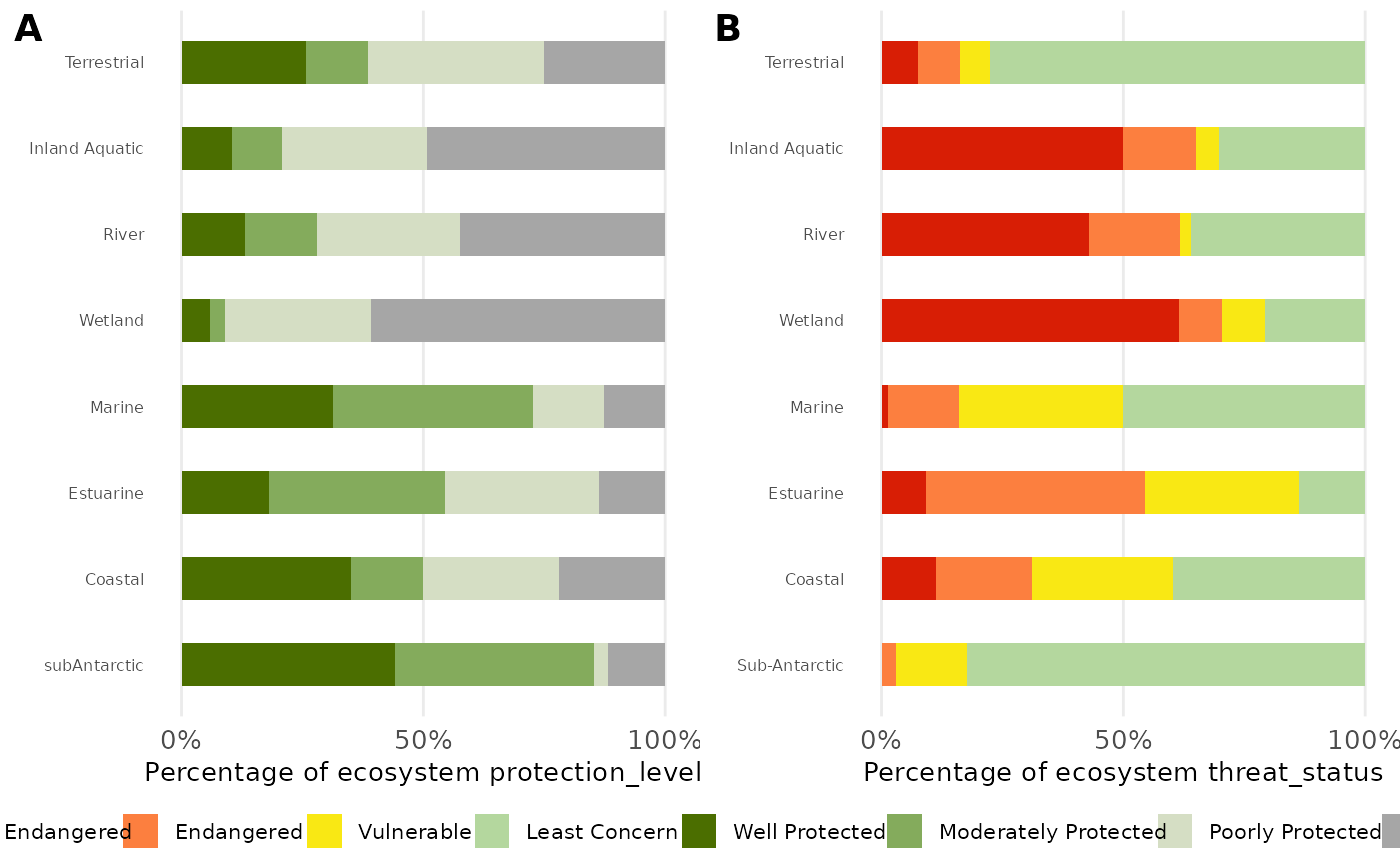
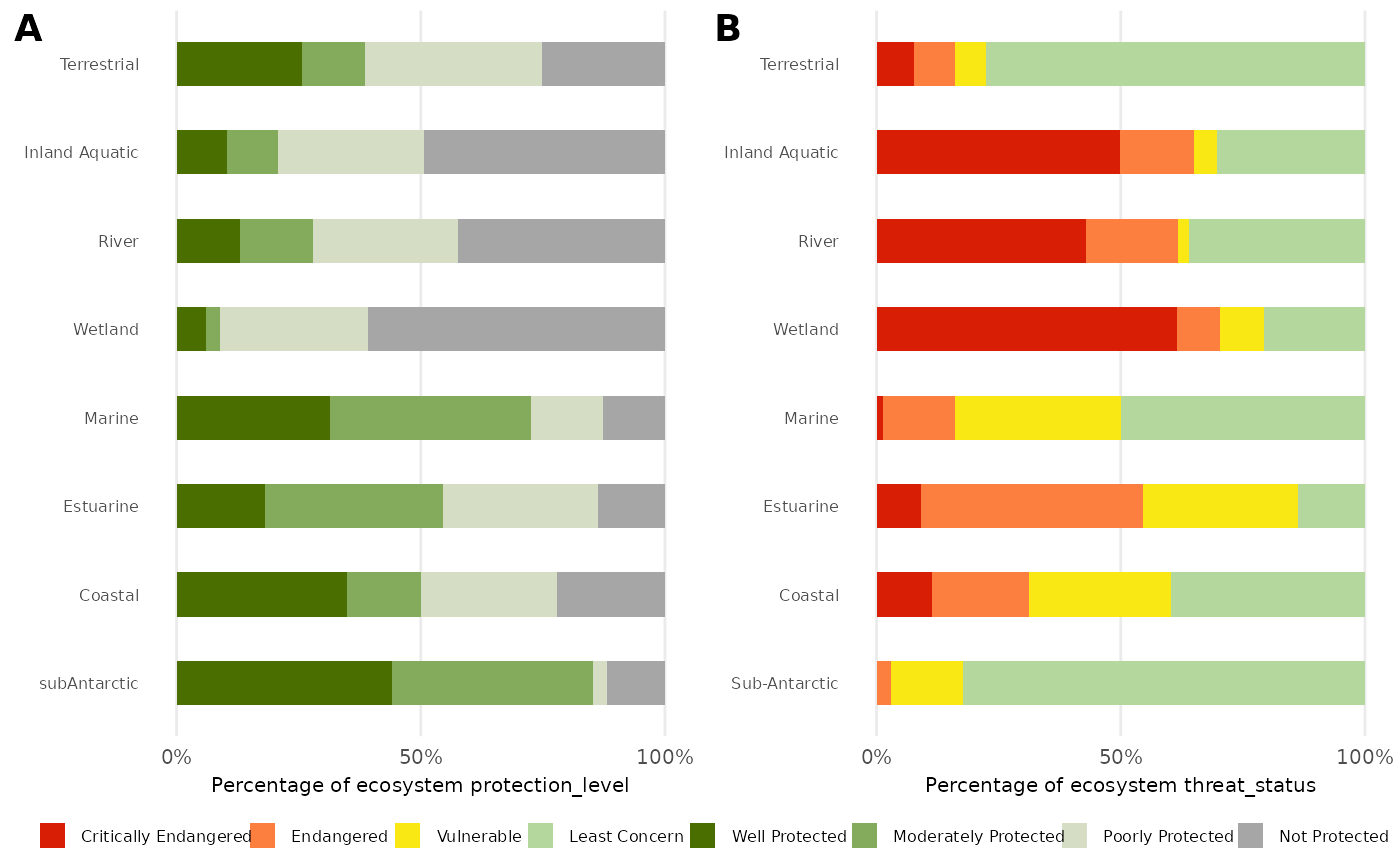
Deploying to gh-pages from @ SANBI-NBA/nbaR@e82a6ef3b23eeda6b83eebc5168be58a82f5b111 🚀

diff --git a/reference/NBA_plot_comb.html b/reference/NBA_plot_comb.html
@@ -55,7 +55,8 @@
 <span>  NUM <span class="op">=</span> <span class="cn">FALSE</span>,</span>
 <span>  <span class="va">LAB</span>,</span>
 <span>  GRP <span class="op">=</span> <span class="cn">FALSE</span>,</span>
-<span>  SAVE <span class="op">=</span> <span class="cn">NULL</span></span>
+<span>  SAVE <span class="op">=</span> <span class="cn">NULL</span>,</span>
+<span>  SCALE_TEXT <span class="op">=</span> <span class="fl">0.75</span></span>
 <span><span class="op">)</span></span></code></pre></div>
     </div>
 
@@ -101,6 +102,10 @@
 
 <dt id="arg-save">SAVE<a class="anchor" aria-label="anchor" href="#arg-save"></a></dt>
 <dd><p>The name of the output file that will be saved to the output folder. If you do not have an outputs folder you will be prompted to make one.</p></dd>
+
+
+<dt id="arg-scale-text">SCALE_TEXT<a class="anchor" aria-label="anchor" href="#arg-scale-text"></a></dt>
+<dd><p>scale the sizes of the plot text to fit your intended output. currently set at 1 as default. If you want to save it to 8 by 6 cm, set it to 0.5.</p></dd>
 
 </dl></div>
     <div class="section level2">
